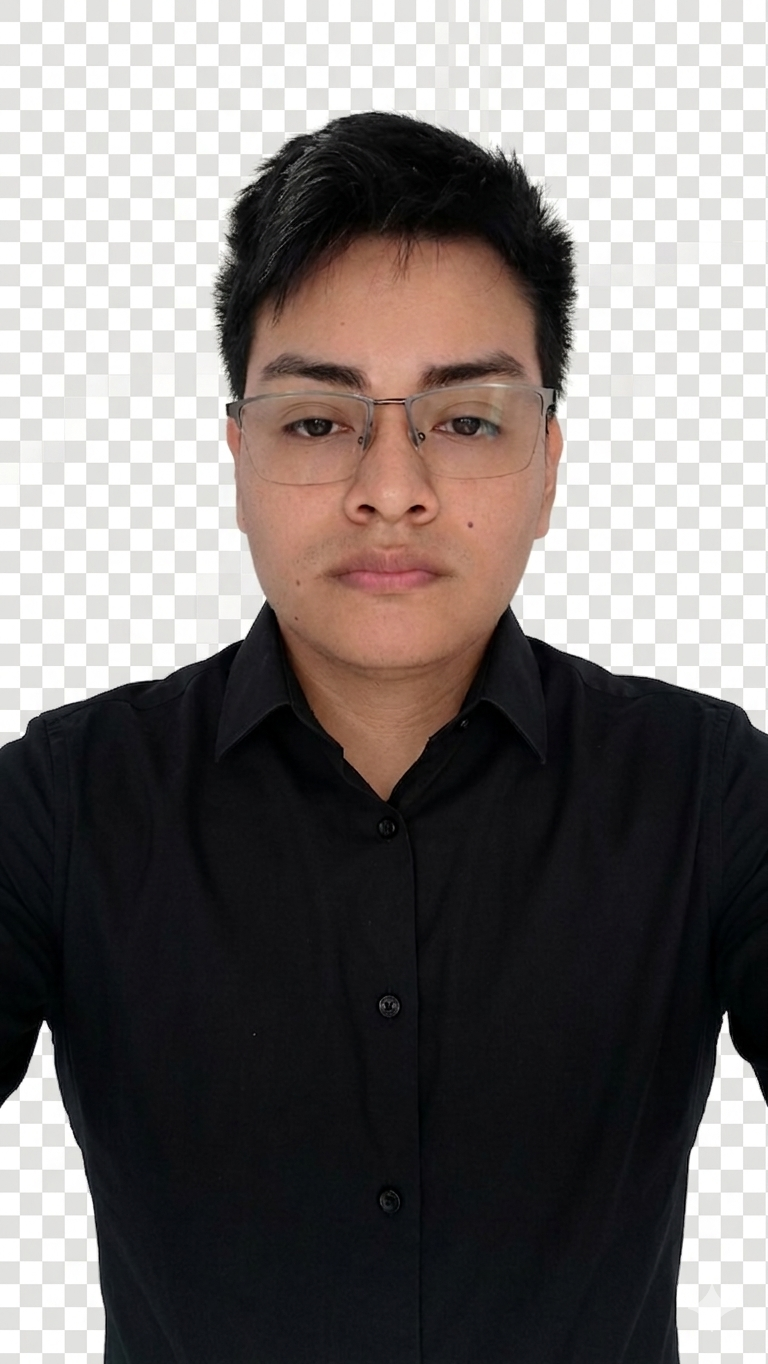
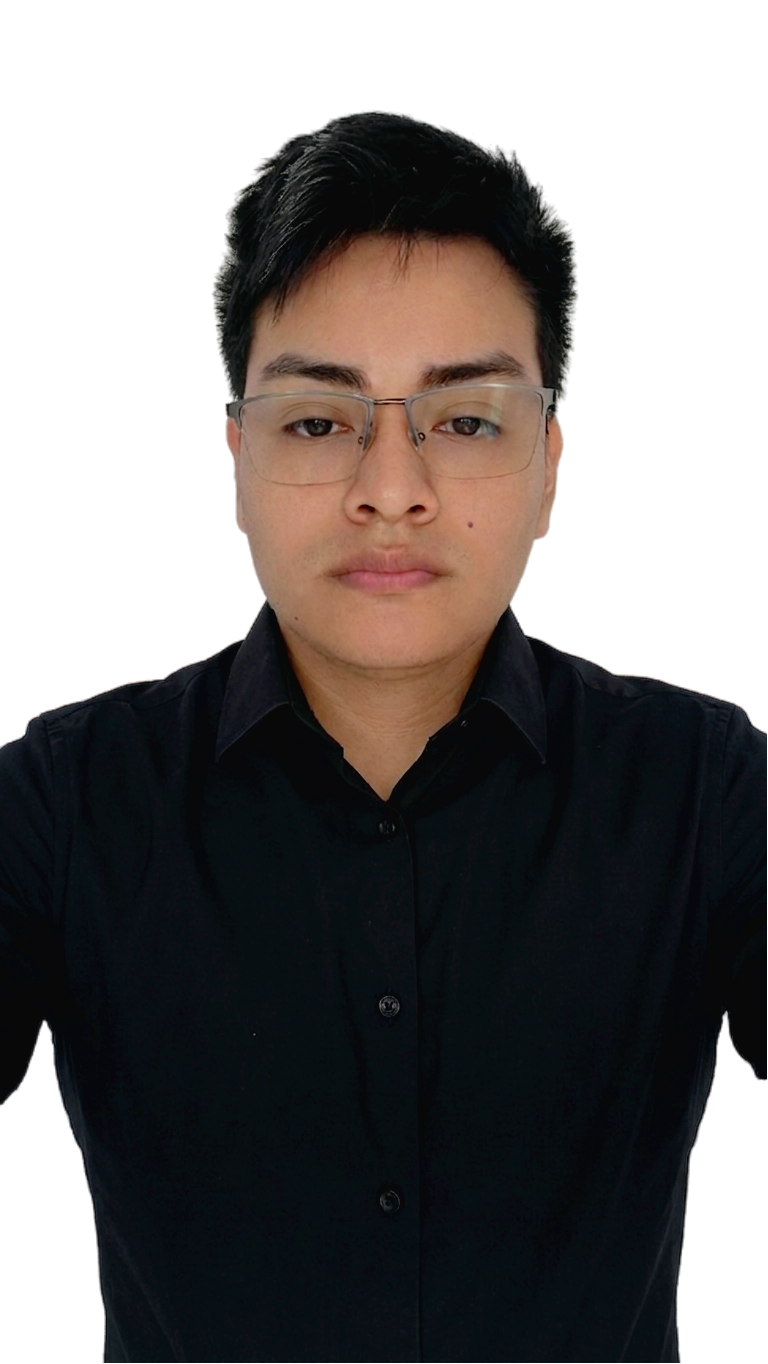
feat: use transparent profile image in hero

Changed region(s): [[0.0, 0.0, 1.0, 0.5543], [0.0, 0.739, 0.1562, 1.0], [0.875, 0.739, 1.0, 1.0]]

diff --git a/app/globals.css b/app/globals.css
@@ -153,26 +153,26 @@ body {
 .photo-wrap {
   position: relative;
   border-radius: 1.35rem;
-  padding: 0.5rem;
-  background: linear-gradient(145deg, rgba(34, 211, 238, 0.4), rgba(99, 102, 241, 0.3));
+  padding: 0.2rem;
 }
 
 .photo-main {
   width: 100%;
   height: auto;
   border-radius: 1rem;
-  object-fit: cover;
-  background: radial-gradient(circle at 35% 35%, rgba(51, 65, 85, 0.85), rgba(2, 6, 23, 0.95));
-  border: 1px solid rgba(148, 163, 184, 0.2);
-  box-shadow: 0 24px 48px -20px rgba(34, 211, 238, 0.35);
+  object-fit: contain;
+  background: transparent;
+  border: none;
+  box-shadow: drop-shadow(0 22px 28px rgba(0, 0, 0, 0.45))
+    drop-shadow(0 0 22px rgba(34, 211, 238, 0.22));
 }
 
 .photo-orbit {
   position: absolute;
-  inset: -10px;
-  border-radius: 1.4rem;
-  border: 1px solid rgba(34, 211, 238, 0.32);
-  filter: blur(0.2px);
+  inset: 5% 6% 10%;
+  border-radius: 9999px;
+  border: 1px solid rgba(34, 211, 238, 0.28);
+  filter: blur(0.1px);
   animation: pulse-ring 2.8s ease-in-out infinite;
 }
 
